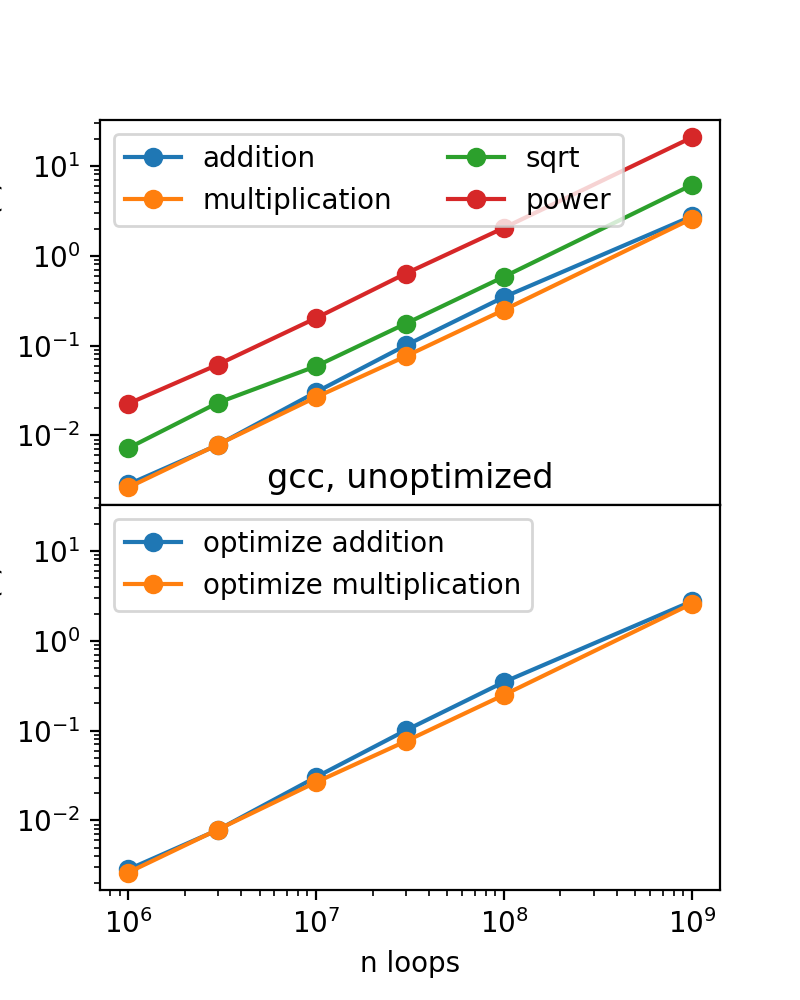
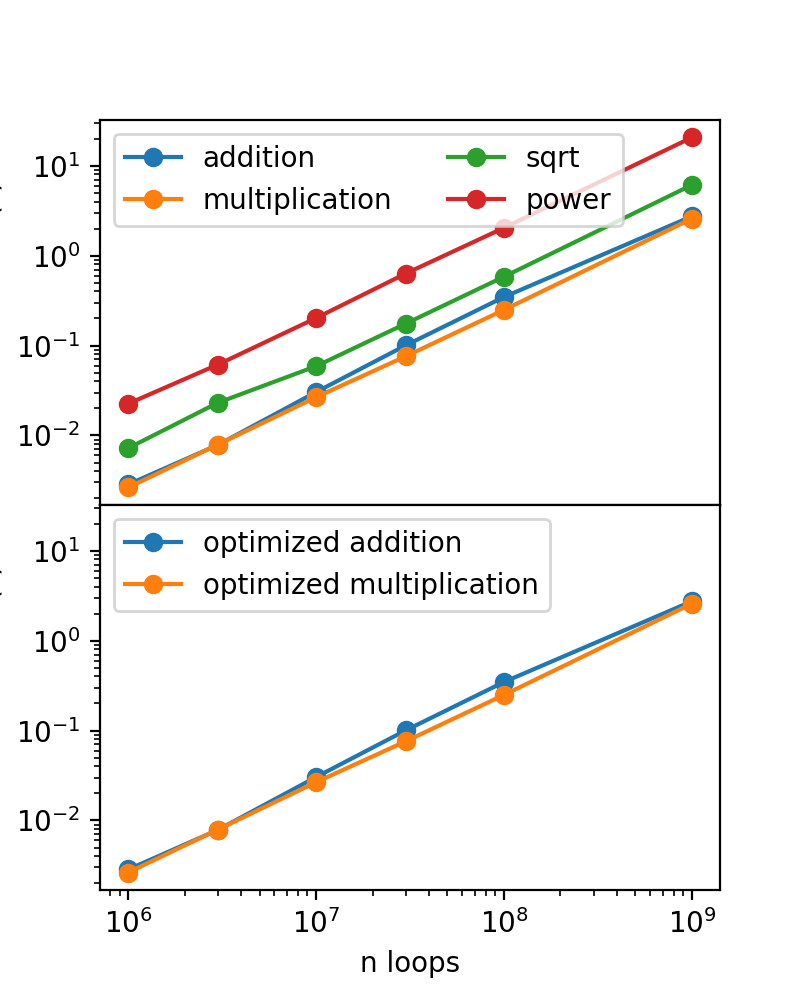
hw 1

Changed region(s): [[0.4062, 0.527, 0.6875, 0.62], [0.4375, 0.465, 0.6875, 0.496], [0.3125, 0.465, 0.4062, 0.496]]

diff --git a/hws/hw_1/plot.py b/hws/hw_1/plot.py
@@ -19,10 +19,10 @@ ax[0].plot(power[:,0], power[:,1], "-o", label= "power")
 ax[0].legend(ncol=2, fontsize=10) 
 ax[0].set_ylabel("execution times (s)")
 
-ax[1].plot(add_optimized[:,0], add[:,1], "-o", label= "optimize addition")
-ax[1].plot(multiply_optimized[:,0], multiply[:,1], "-o", label= "optimize multiplication")
+ax[1].plot(add_optimized[:,0], add[:,1], "-o", label= "optimized addition")
+ax[1].plot(multiply_optimized[:,0], multiply[:,1], "-o", label= "optimized multiplication")
 
-ax[1].set(yscale="log", xscale="log", title="gcc, unoptimized", xlabel="n loops", ylabel="execution times (s)")
+ax[1].set(yscale="log", xscale="log", xlabel="n loops", ylabel="execution times (s)")
 ax[1].legend(fontsize=10) 
 
 plt.savefig("./results.png")
